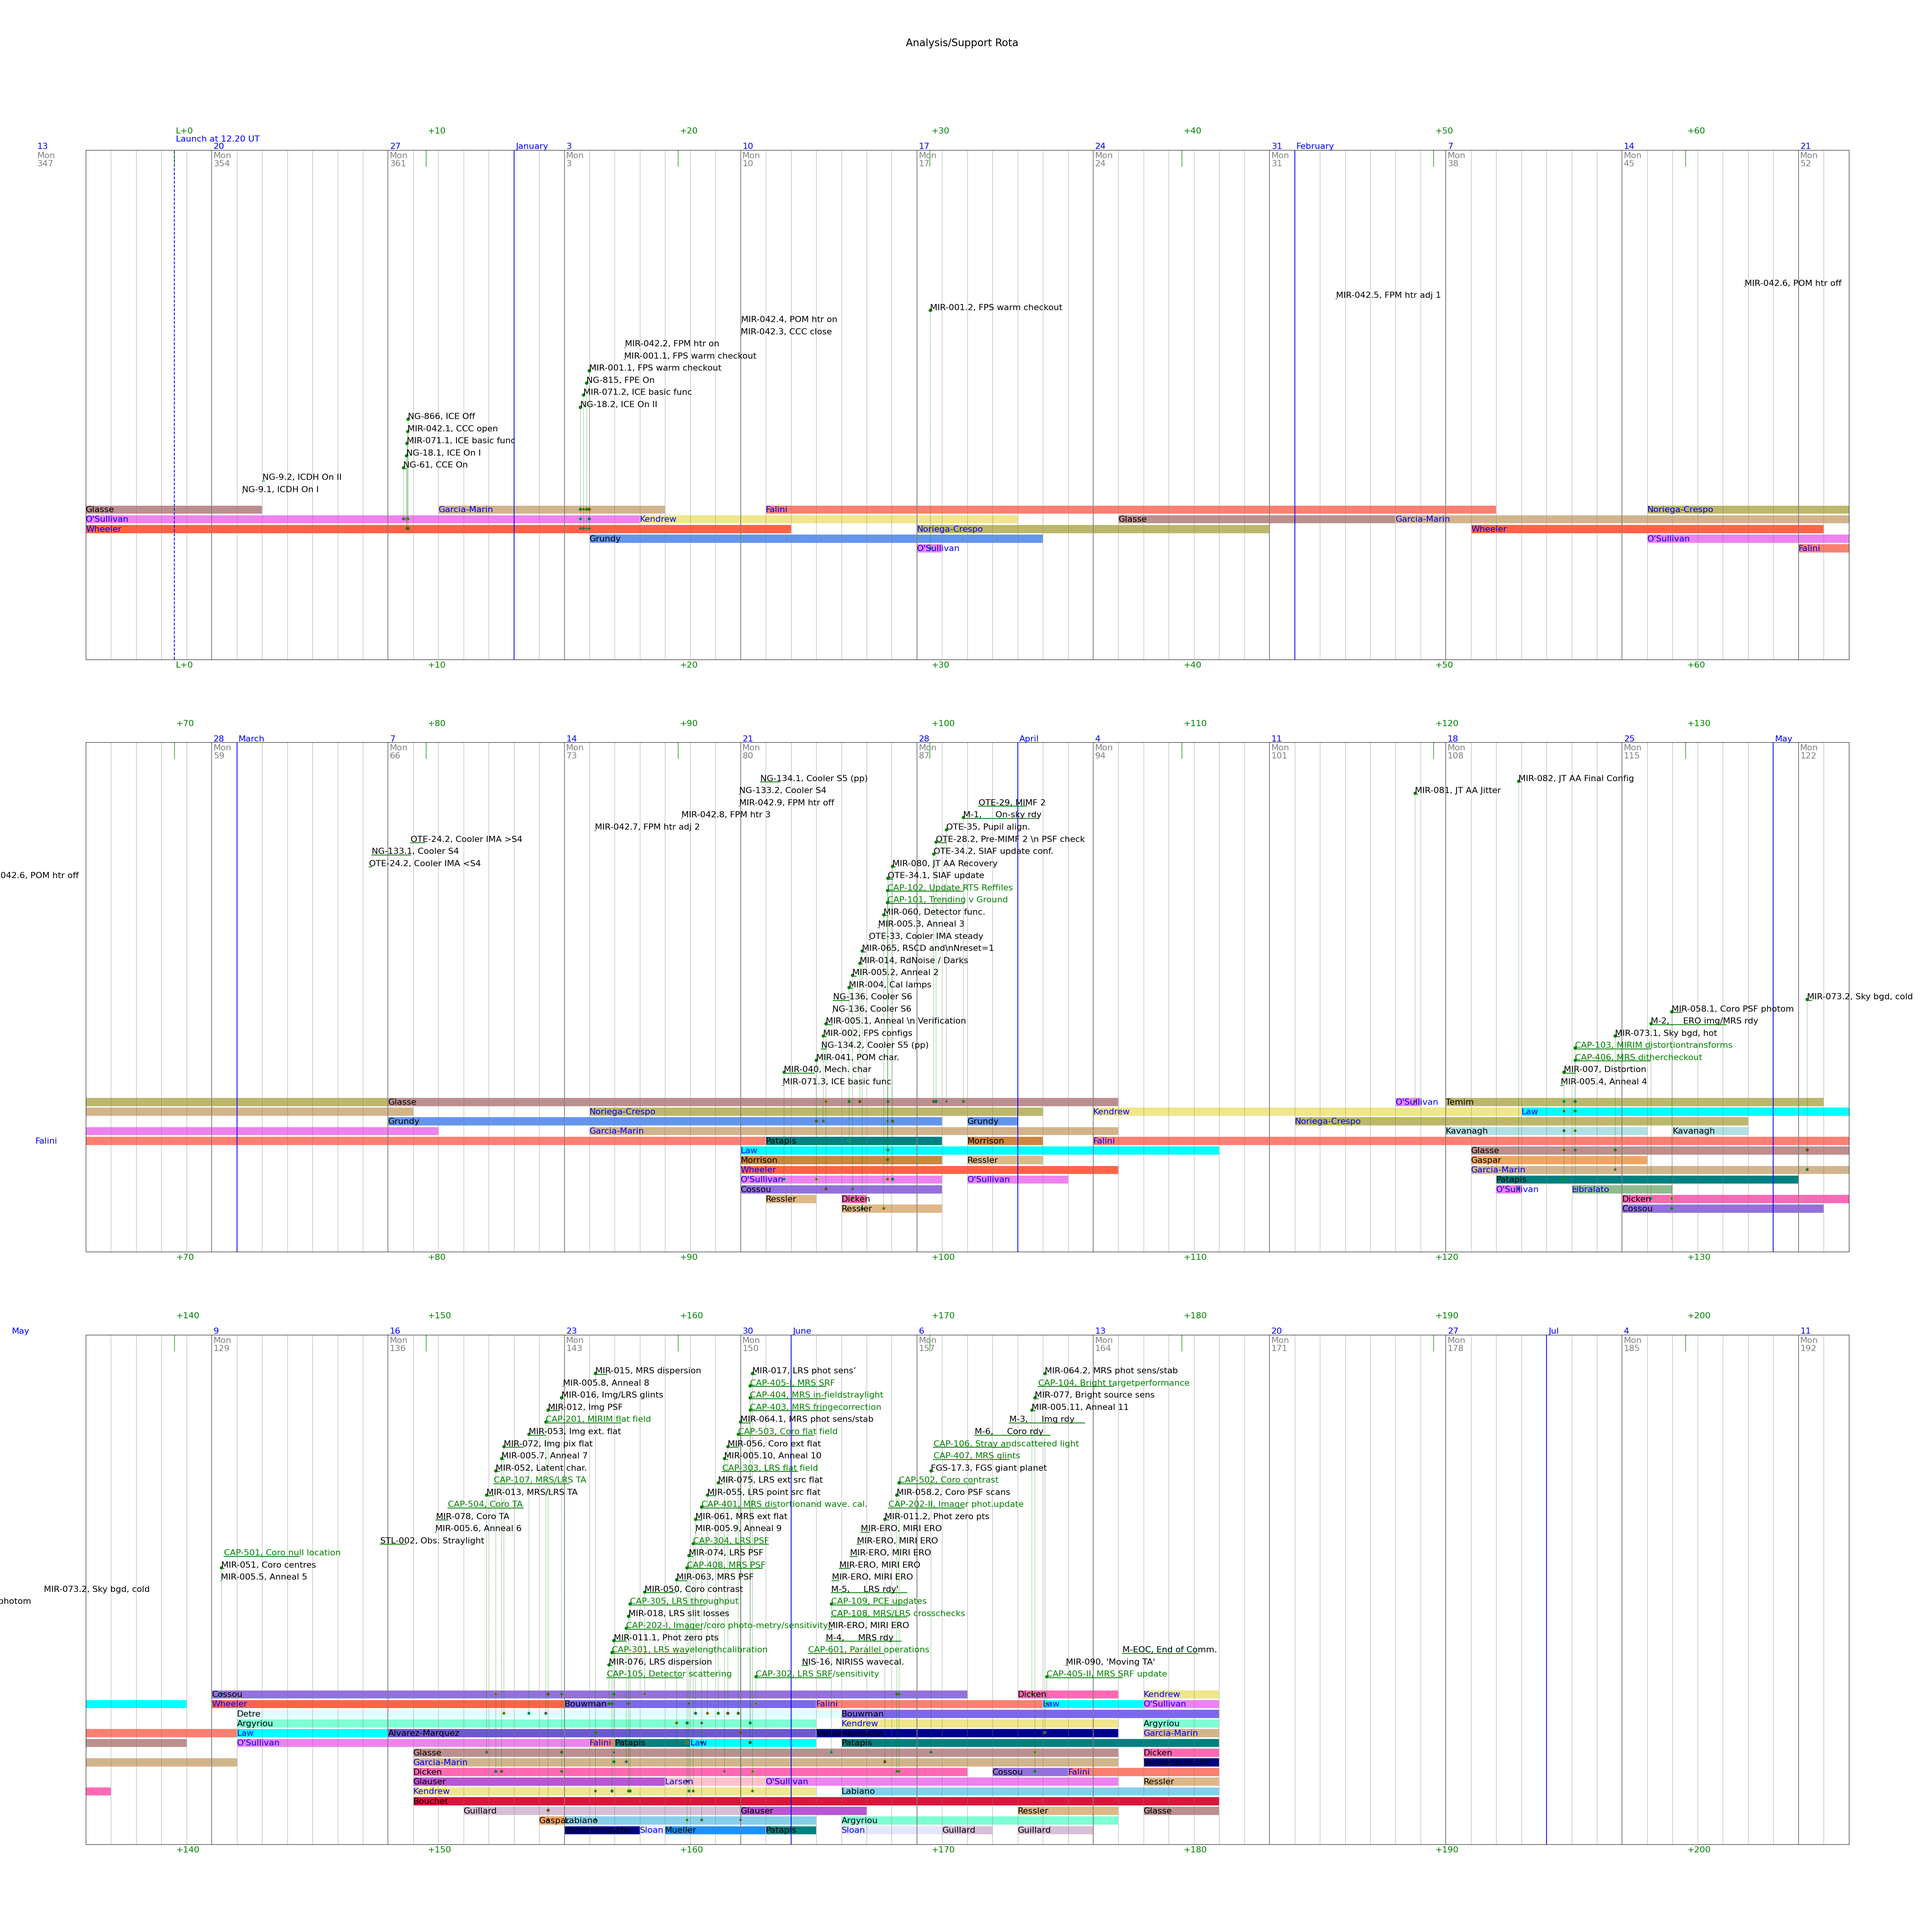
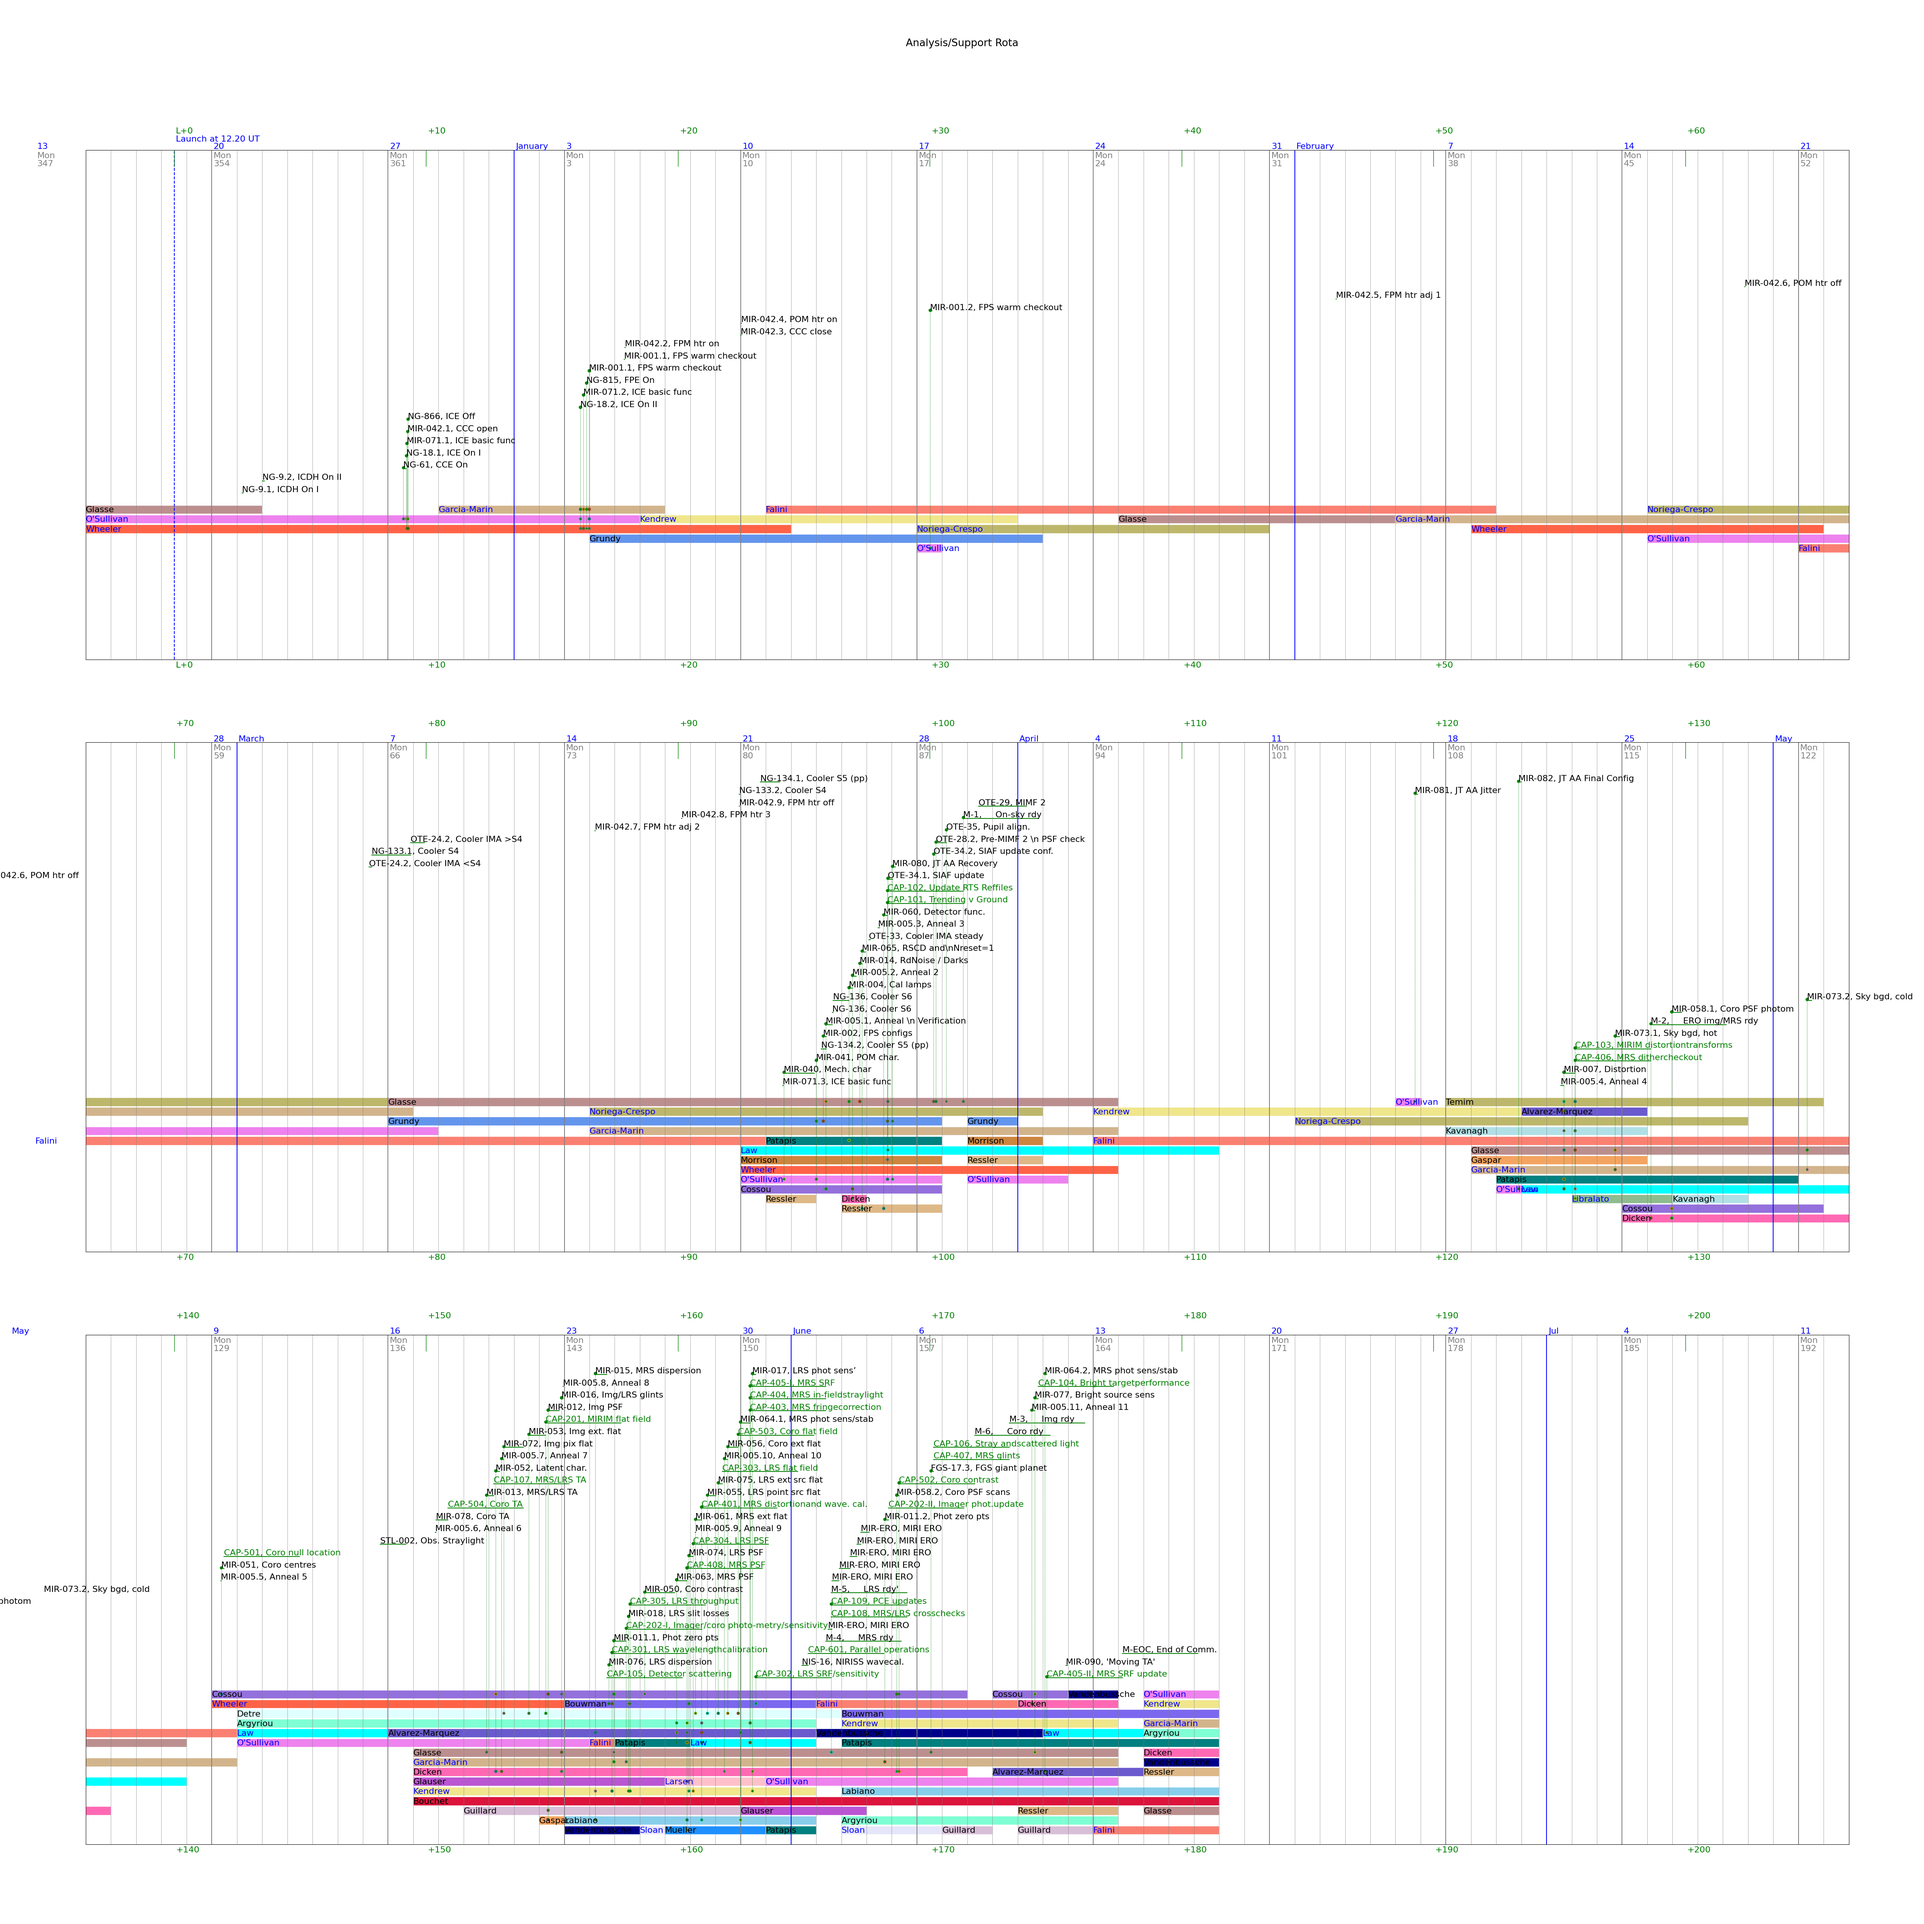
Included Javier's email 23/9/21

Changed region(s): [[0.8112, 0.5616, 0.9672, 0.6552], [0.5304, 0.8736, 0.6552, 0.9672], [0.0312, 0.8736, 0.0936, 0.936]]

diff --git a/source/shift_plan.py b/source/shift_plan.py
@@ -48,7 +48,7 @@ class ShiftPlan:
         n_slots_max = 15
         n_slots_nominal = 10                                            # More slots for peak stress
         daily_slot_quota = np.full((n_days), n_slots_nominal)           # Count of slots on each day
-        unusual_slots = [(-6, 0, 3), (90, 100, 15), (152, 165, 15), (185, 190, 3)]     # L+a L+b nshifts
+        unusual_slots = [(-6, 0, 3), (93, 103, 15), (155, 168, 15), (185, 190, 3)]     # L+a L+b nshifts
         for uslot in unusual_slots:
             col1 = uslot[0] - ShiftPlan.start_md
             col2 = uslot[1] - ShiftPlan.start_md
